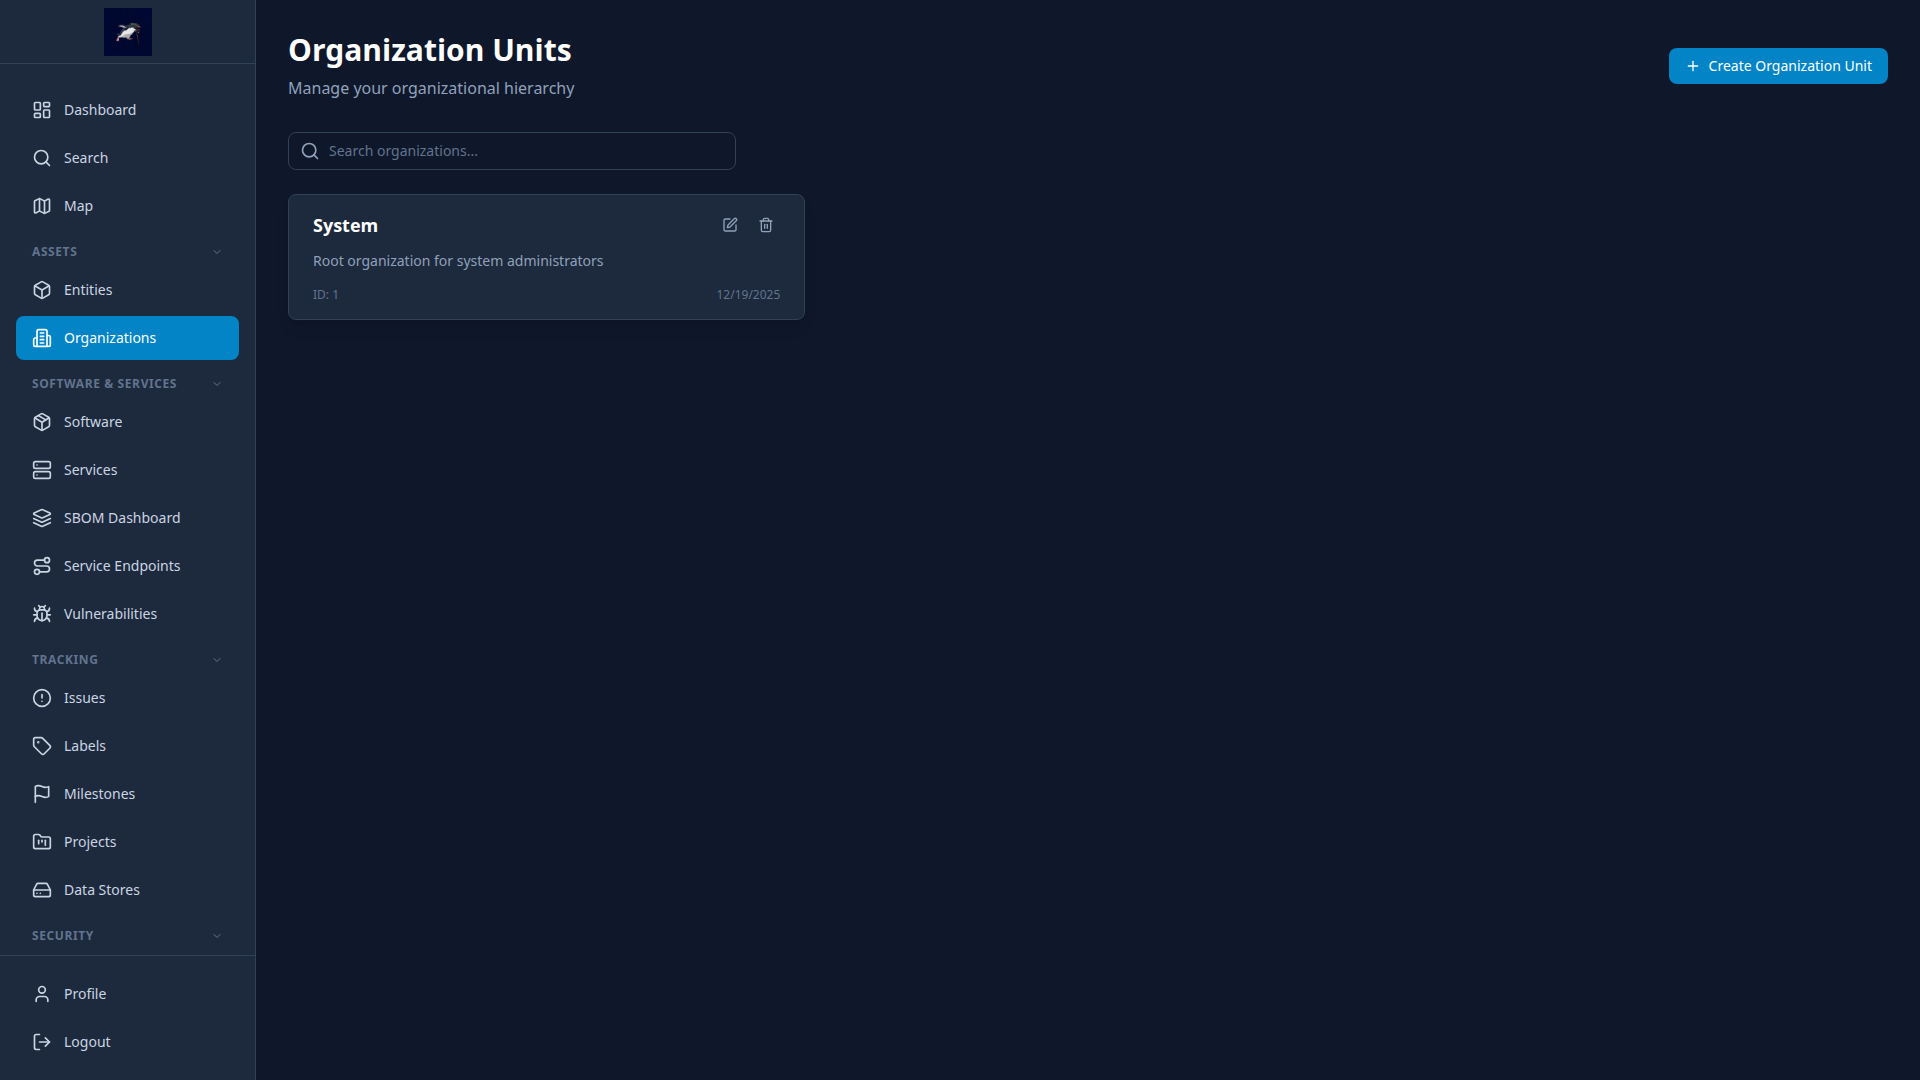
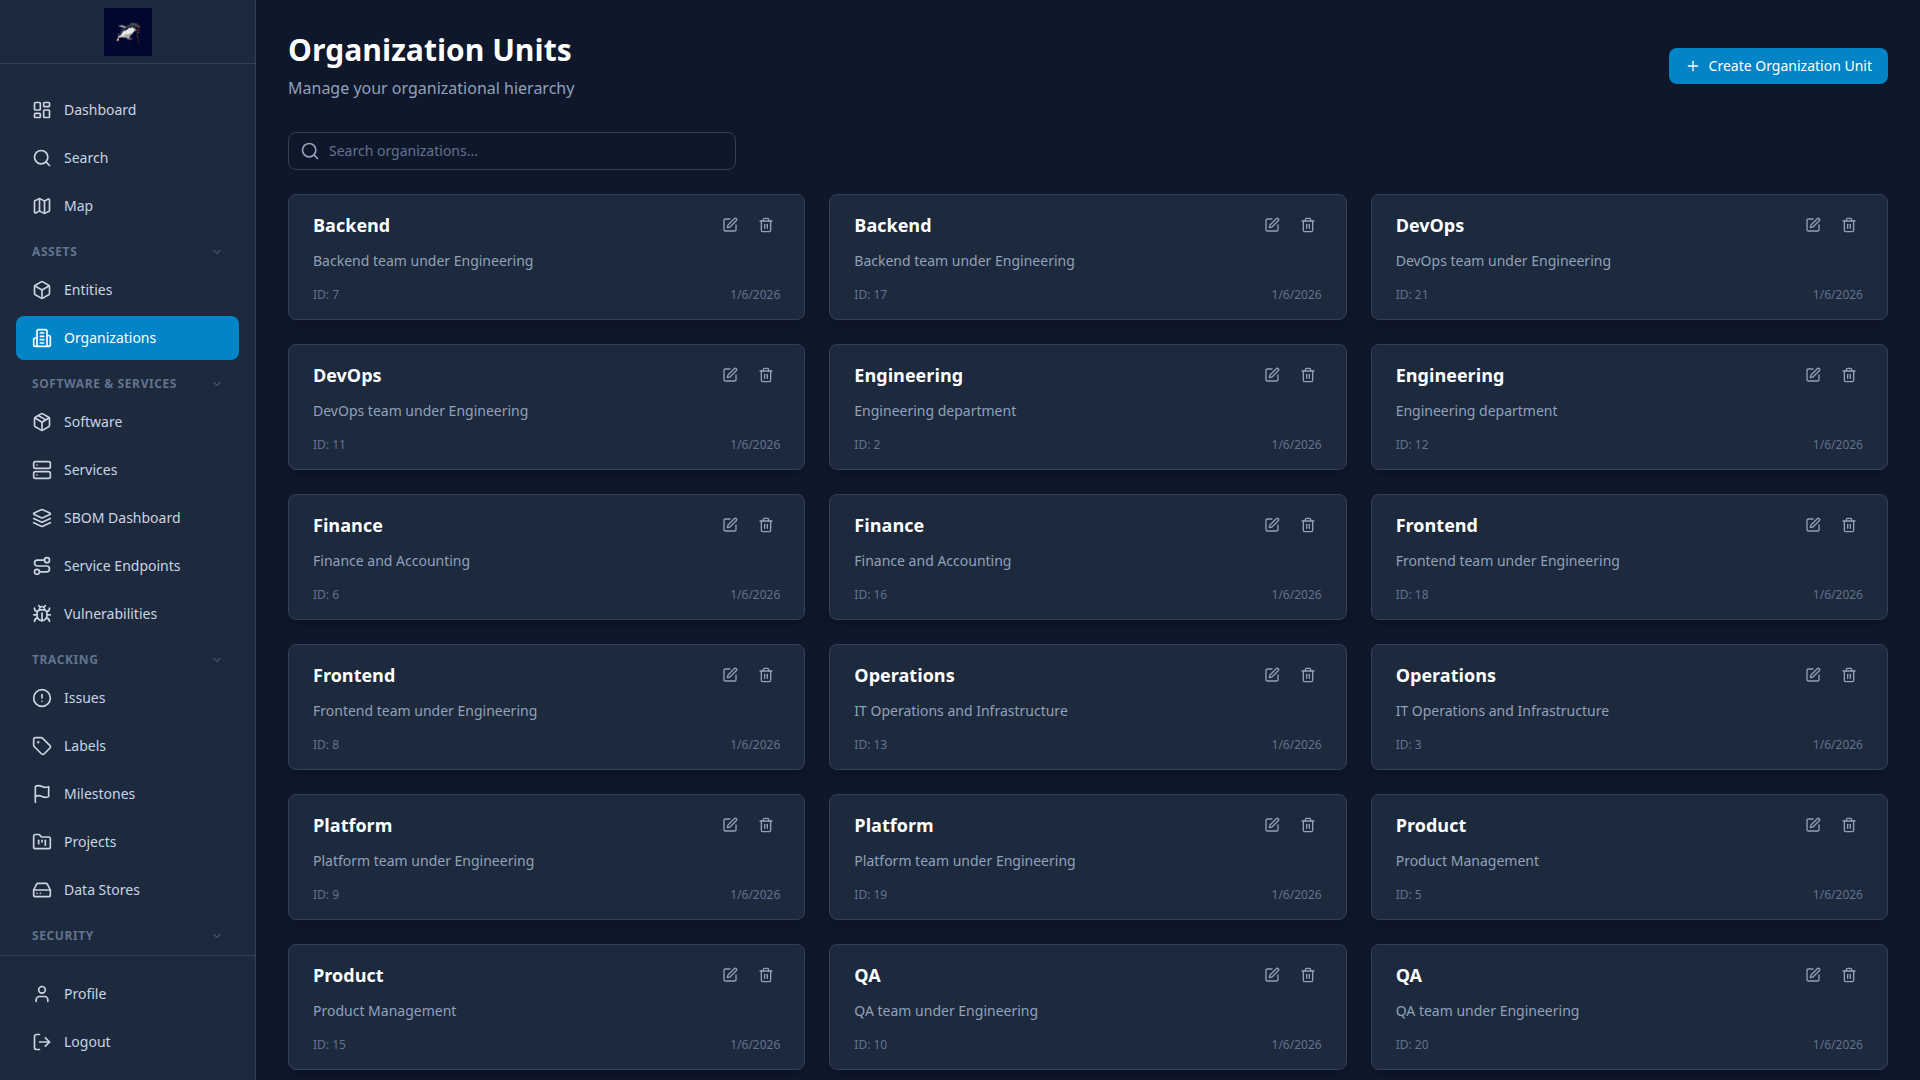
fix(api): Resolve async decorator issue and update screenshots with mock data
Flask Integration Fix:
- Fix validated_request decorator to properly handle async functions
- Previously tried to use asyncio.run() inside running event loop, causing 500 errors
- Now returns async wrapper for async functions, sync wrapper for sync functions

Mock Data Script Fixes:
- Remove organization_id from labels payload (not in Pydantic model)
- Remove description from dependencies payload (not in Pydantic model)

Screenshots:
- Regenerated all screenshots with populated mock data
- Dashboard now shows 21 orgs, 76 entities, 11 identities
- Services page shows 10 microservices with deployment info
- Software page shows 10 vendor licenses with costs
- Labels page shows 10 colorful categorization labels
- Identities page shows 11 users with types and providers

🤖 Generated with [Claude Code](https://claude.com/claude-code)

diff --git a/scripts/seed_mock_data.py b/scripts/seed_mock_data.py
@@ -195,7 +195,7 @@ class MockDataSeeder:
                 {
                     "name": name,
                     "description": description,
-                    "org_type": "department",
+                    "organization_type": "department",
                 },
             )
             if result:
@@ -213,7 +213,7 @@ class MockDataSeeder:
                     {
                         "name": name,
                         "description": f"{name} team under Engineering",
-                        "org_type": "team",
+                        "organization_type": "team",
                         "parent_id": eng_org.get("id"),
                     },
                 )
@@ -230,14 +230,18 @@ class MockDataSeeder:
             last_name = self.faker.last_name()
             username = f"{first_name.lower()}.{last_name.lower()}"
 
+            # identity_type must be 'human' or 'service_account'
+            identity_type = random.choice(["human", "human", "service_account"])
+
             result = self._api_post(
                 "/api/v1/identities",
                 {
                     "username": username,
                     "email": f"{username}@example.com",
-                    "display_name": f"{first_name} {last_name}",
-                    "identity_type": random.choice(["user", "user", "service"]),
+                    "full_name": f"{first_name} {last_name}",
+                    "identity_type": identity_type,
                     "auth_provider": "local",
+                    "password": "MockPassword123!",  # Required for local auth
                     "organization_id": self._random_org_id(),
                     "is_active": random.random() > 0.1,  # 90% active
                 },
@@ -262,11 +266,11 @@ class MockDataSeeder:
 
         for name, description in groups[: self.count]:
             result = self._api_post(
-                "/api/v1/identity-groups",
+                "/api/v1/groups",  # Correct endpoint
                 {
                     "name": name,
                     "description": description,
-                    "organization_id": self._random_org_id(),
+                    "is_active": True,
                 },
             )
             if result:
@@ -276,6 +280,11 @@ class MockDataSeeder:
     def seed_entities(self) -> None:
         """Create entities of all types with sub-types."""
         self.log("\nSeeding Entities...")
+
+        # Must have orgs first
+        if not self.created["organizations"]:
+            self.log("  No organizations - skipping entities")
+            return
 
         for entity_type, sub_types in ENTITY_TYPES.items():
             self.log(f"  Creating {entity_type} entities...")
@@ -458,6 +467,10 @@ class MockDataSeeder:
         """Create projects."""
         self.log("\nSeeding Projects...")
 
+        if not self.created["organizations"]:
+            self.log("  No organizations - skipping projects")
+            return
+
         projects = [
             ("Platform Modernization", "Migrate legacy systems to cloud-native"),
             ("Security Hardening Q1", "Quarterly security improvements"),
@@ -555,31 +568,42 @@ class MockDataSeeder:
         """Create issues with various statuses."""
         self.log("\nSeeding Issues...")
 
+        # Issues require reporter_id (identity)
+        if not self.created["identities"]:
+            self.log("  No identities - skipping issues")
+            return
+
         issue_templates = [
-            ("Investigate slow API response times", "performance"),
-            ("Update SSL certificates before expiry", "security"),
+            ("Investigate slow API response times", "other"),
+            ("Update SSL certificates before expiry", "other"),
             ("Database connection pool exhaustion", "bug"),
-            ("Add rate limiting to public endpoints", "enhancement"),
-            ("Document new authentication flow", "documentation"),
+            ("Add rate limiting to public endpoints", "feature"),
+            ("Document new authentication flow", "other"),
             ("Memory leak in worker processes", "bug"),
-            ("Implement caching for dashboard queries", "performance"),
-            ("Upgrade deprecated dependencies", "technical-debt"),
-            ("Add health check endpoints", "enhancement"),
-            ("Review and rotate API keys", "security"),
+            ("Implement caching for dashboard queries", "other"),
+            ("Upgrade deprecated dependencies", "other"),
+            ("Add health check endpoints", "feature"),
+            ("Review and rotate API keys", "other"),
         ]
 
         for i in range(self.count):
             title, issue_type = random.choice(issue_templates)
             title = f"{title} #{i + 1}"
 
+            # Get a random reporter from created identities
+            reporter = random.choice(self.created["identities"])
+            reporter_id = reporter.get("id")
+
             payload: dict[str, Any] = {
                 "title": title,
                 "description": self.faker.paragraph(nb_sentences=3),
-                "status": random.choice(["open", "in_progress", "closed"]),
+                "status": random.choice(["open", "in_progress", "resolved", "closed"]),
                 "priority": random.choice(["low", "medium", "high", "critical"]),
+                "issue_type": issue_type,
+                "reporter_id": reporter_id,
             }
 
-            # Add organization_id if we have orgs
+            # Optionally add organization_id
             if self.created["organizations"]:
                 payload["organization_id"] = self._random_org_id()
 
@@ -591,6 +615,10 @@ class MockDataSeeder:
     def seed_services(self) -> None:
         """Create microservices."""
         self.log("\nSeeding Services...")
+
+        if not self.created["organizations"]:
+            self.log("  No organizations - skipping services")
+            return
 
         services = [
             ("auth-service", "Authentication and authorization"),
@@ -615,8 +643,8 @@ class MockDataSeeder:
                     "deployment_method": random.choice(DEPLOYMENT_METHODS),
                     "language": random.choice(LANGUAGES),
                     "repository_url": f"https://github.com/example/{name}",
-                    "sla_target": random.choice([99.9, 99.95, 99.99]),
-                    "status": random.choice(["active", "active", "deprecated"]),
+                    "sla_uptime": random.choice([99.9, 99.95, 99.99]),
+                    "status": random.choice(["active", "active", "maintenance"]),
                 },
             )
             if result:
@@ -627,6 +655,10 @@ class MockDataSeeder:
         """Create software licenses."""
         self.log("\nSeeding Software...")
 
+        if not self.created["organizations"]:
+            self.log("  No organizations - skipping software")
+            return
+
         for vendor, category in SOFTWARE_VENDORS[: self.count]:
             result = self._api_post(
                 "/api/v1/software",
@@ -636,15 +668,15 @@ class MockDataSeeder:
                     "organization_id": self._random_org_id(),
                     "vendor": vendor,
                     "version": self._random_version(),
-                    "license_type": random.choice(
-                        ["subscription", "perpetual", "open_source"]
+                    "software_type": random.choice(
+                        ["commercial", "open_source", "internal"]
                     ),
-                    "license_count": random.randint(10, 500),
-                    "annual_cost": random.randint(1000, 50000),
+                    "seats": random.randint(10, 500),
+                    "cost_monthly": float(random.randint(100, 5000)),
                     "renewal_date": (
                         datetime.now(timezone.utc) + timedelta(days=random.randint(30, 365))
                     ).date().isoformat(),
-                    "status": random.choice(["active", "active", "expiring_soon"]),
+                    "is_active": True,
                 },
             )
             if result:
@@ -654,6 +686,10 @@ class MockDataSeeder:
     def seed_ipam(self) -> None:
         """Create IPAM prefixes, VLANs, and addresses."""
         self.log("\nSeeding IPAM...")
+
+        if not self.created["organizations"]:
+            self.log("  No organizations - skipping IPAM")
+            return
 
         # Create prefixes
         self.log("  Creating prefixes...")
@@ -703,22 +739,24 @@ class MockDataSeeder:
                 self.created["ipam_vlans"].append(result)
                 self.log(f"    Created VLAN: {vid} ({name})")
 
-        # Create individual addresses
-        self.log("  Creating addresses...")
-        for i in range(min(self.count, 10)):
-            ip = f"10.0.{random.randint(1, 254)}.{random.randint(1, 254)}"
-            result = self._api_post(
-                "/api/v1/ipam/addresses",
-                {
-                    "address": ip,
-                    "description": f"Address {i + 1}",
-                    "organization_id": self._random_org_id(),
-                    "status": random.choice(["active", "reserved", "dhcp"]),
-                },
-            )
-            if result:
-                self.created["ipam_addresses"].append(result)
-                self.log(f"    Created address: {ip}")
+        # Create individual addresses (need prefix_id)
+        if self.created["ipam_prefixes"]:
+            self.log("  Creating addresses...")
+            for i in range(min(self.count, 10)):
+                ip = f"10.0.{random.randint(1, 254)}.{random.randint(1, 254)}/32"
+                prefix = random.choice(self.created["ipam_prefixes"])
+                result = self._api_post(
+                    "/api/v1/ipam/addresses",
+                    {
+                        "address": ip,
+                        "description": f"Address {i + 1}",
+                        "prefix_id": prefix.get("id"),
+                        "status": random.choice(["active", "reserved", "dhcp"]),
+                    },
+                )
+                if result:
+                    self.created["ipam_addresses"].append(result)
+                    self.log(f"    Created address: {ip}")
 
     def seed_dependencies(self) -> None:
         """Create dependencies between entities."""
@@ -744,7 +782,6 @@ class MockDataSeeder:
                     "target_type": "entity",
                     "target_id": target.get("id"),
                     "dependency_type": random.choice(dependency_types),
-                    "description": f"Dependency between {source.get('name')} and {target.get('name')}",
                 },
             )
             if result:

diff --git a/shared/py_libs/py_libs/pydantic/flask_integration.py b/shared/py_libs/py_libs/pydantic/flask_integration.py
@@ -1,6 +1,7 @@
 """Flask integration for Pydantic 2 validation."""
 
 import asyncio
+import inspect
 from functools import wraps
 from typing import Any, Callable, Dict, Optional, Tuple, Type, TypeVar
 
@@ -97,35 +98,34 @@ def validated_request(
     def decorator(func: Callable) -> Callable:
         is_async = asyncio.iscoroutinefunction(func)
 
-        @wraps(func)
-        def wrapper(*args, **kwargs):
-            try:
-                if body_model:
-                    kwargs["body"] = validate_body(body_model)
-                if query_model:
-                    kwargs["query"] = validate_query_params(query_model)
+        if is_async:
+            @wraps(func)
+            async def async_wrapper(*args, **kwargs):
+                try:
+                    if body_model:
+                        kwargs["body"] = validate_body(body_model)
+                    if query_model:
+                        kwargs["query"] = validate_query_params(query_model)
 
-                result = func(*args, **kwargs)
+                    return await func(*args, **kwargs)
+                except ValidationError as e:
+                    return ValidationErrorResponse.from_pydantic_error(e)
 
-                # Handle async functions by running them in the event loop
-                if is_async:
-                    # Try to get existing loop, or create new one
-                    try:
-                        loop = asyncio.get_running_loop()
-                        # If we have a running loop, create a task
-                        import concurrent.futures
-                        with concurrent.futures.ThreadPoolExecutor() as executor:
-                            future = executor.submit(asyncio.run, result)
-                            return future.result()
-                    except RuntimeError:
-                        # No running loop, just run it
-                        return asyncio.run(result)
+            return async_wrapper
+        else:
+            @wraps(func)
+            def sync_wrapper(*args, **kwargs):
+                try:
+                    if body_model:
+                        kwargs["body"] = validate_body(body_model)
+                    if query_model:
+                        kwargs["query"] = validate_query_params(query_model)
 
-                return result
-            except ValidationError as e:
-                return ValidationErrorResponse.from_pydantic_error(e)
+                    return func(*args, **kwargs)
+                except ValidationError as e:
+                    return ValidationErrorResponse.from_pydantic_error(e)
 
-        return wrapper
+            return sync_wrapper
 
     return decorator
 
